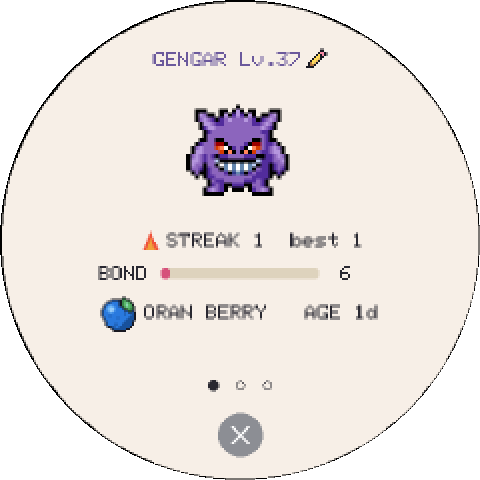
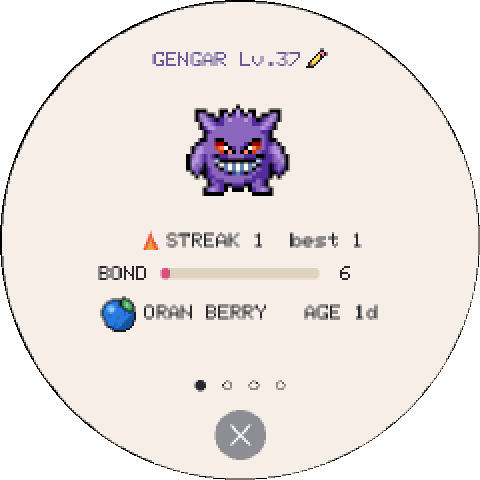
Docs for 1.39: new PokeRun and Volley shots, current page dots, evolving explained

Changed region(s): [[0.4688, 0.8438, 0.5625, 0.9688], [0.4062, 0.7812, 0.5938, 0.8125], [0.4375, 0.875, 0.4688, 0.9375]]

diff --git a/README.md b/README.md
@@ -85,6 +85,8 @@ See [How it works](docs/HOW_IT_WORKS.md) for charts of what every action, game a
 
 ### Raising your next Pokémon
 
+When your Pokémon is ready to evolve, a red **Evolve** button appears: tap it to evolve, or **Keep** to stay as it is, and the button comes back an hour later. [Moves](docs/MOVES.md) shows the level each species evolves at.
+
 A fully evolved Pokémon that is at least 3 days old offers a goodbye. If you choose to stay together, it won't ask again: whenever you're ready, hold your finger on it to bring the goodbye back. You can also let any Pokémon go by holding your finger on it. Either way, you then choose your next one from your Pokédex. It hatches from an egg, so only first forms can be chosen: Pikachu, not Raichu. A shiny you have shows as its own square with sparkles, and picking it hatches a shiny for sure; a regular one has a 1 in 4 chance of hatching shiny. If you neglect a Pokémon until it runs away, you get a random common egg instead.
 
 Levels stop at **100**, since a Pokémon past that would be too strong to battle; one that is already older stays at 100. For the end game, raising 3, 5 and 10 different Pokémon to level 100 earns the **Level 100 ×3**, **×5** and **×10** medals, on their own page of achievements.

diff --git a/webgame/SITE_README.md b/webgame/SITE_README.md
@@ -51,7 +51,7 @@ Each one stops at 100. The **Training** page on your Pokémon's card shows how f
 
 ## Moves
 
-Your Pokémon fights with two moves: on the right the strongest of its own type, on the left the strongest of any other type. They are the attacks its species learns in Pokémon Red and Blue, up to its level, and it gains a level every hour, asleep or awake. Only levels teach moves, not training or wins. When a stronger one takes over a button, the next wild battle opens with **Learned …!** A Charmander starts with Scratch, learns Ember at level 9, Slash at 30 and Flamethrower at 38.
+Your Pokémon fights with two moves: on the right the strongest of its own type, on the left the strongest of any other type. They are the attacks its species learns in Pokémon Red and Blue, up to its level, and it gains a level every hour, asleep or awake. Only levels teach moves, not training or wins. When a stronger one takes over a button, the next wild battle opens with **Learned …!** A Charmander starts with Scratch, learns Ember at level 9, Slash at 30 and Flamethrower at 38. The [moves chart](https://github.com/FedorSosnin/PokeKnomiGochi/blob/main/docs/MOVES.md) has every Pokémon's moves and the level it evolves at.
 
 ## Your save
 
